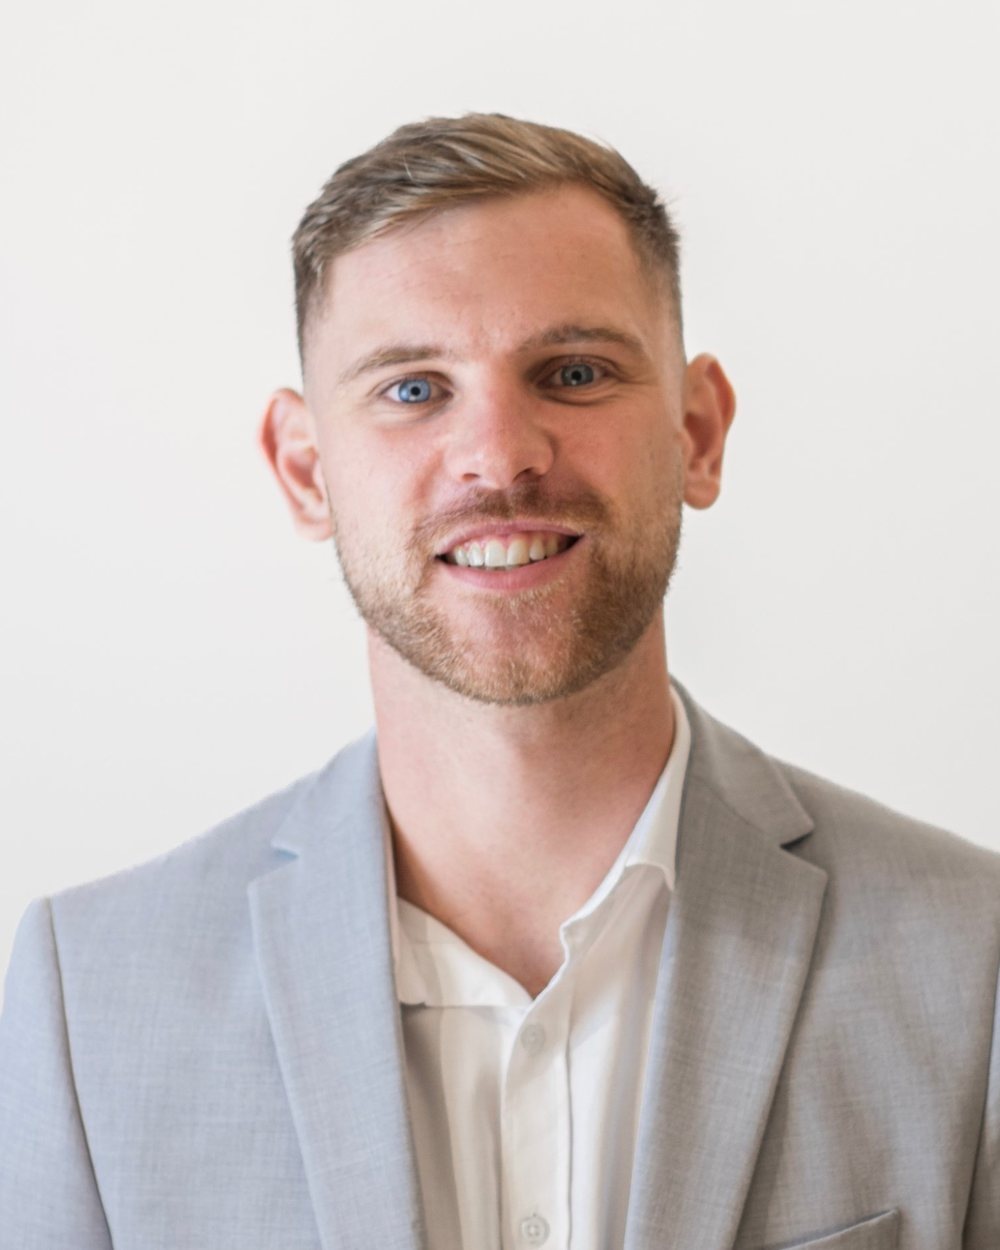
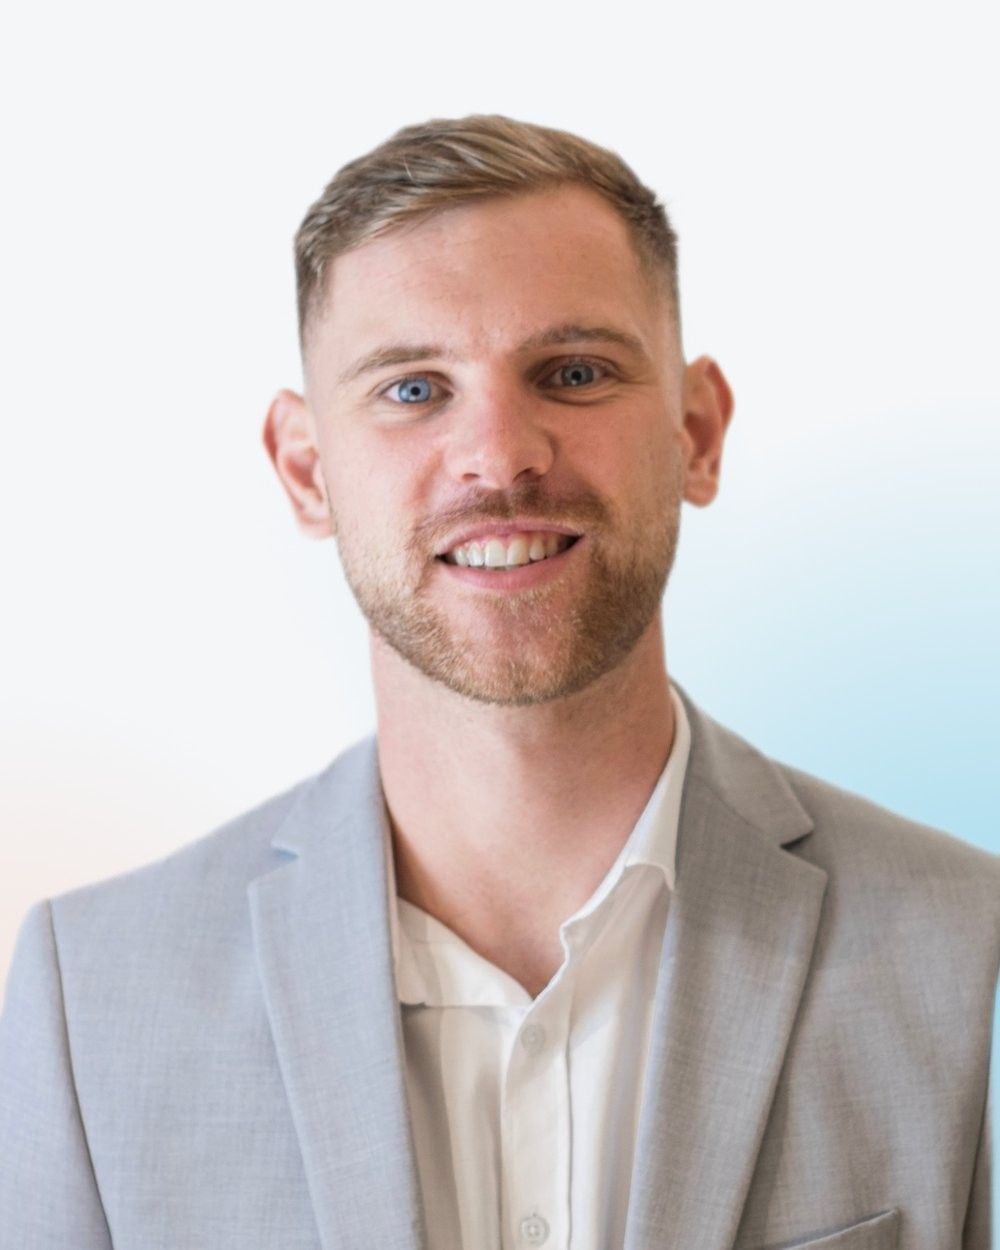
Grandes icônes avec cadre et portrait sur fond voile givré

diff --git a/src/app/manifest.ts b/src/app/manifest.ts
@@ -14,7 +14,7 @@ export default function manifest(): MetadataRoute.Manifest {
     theme_color: "#F4F6F8",
     icons: [
       { src: "/icon-192.png", sizes: "192x192", type: "image/png" },
-      { src: "/icon.png", sizes: "512x512", type: "image/png" },
+      { src: "/icon-512.png", sizes: "512x512", type: "image/png" },
     ],
   };
 }

diff --git a/CLAUDE.md b/CLAUDE.md
@@ -51,6 +51,6 @@ Bilingual showcase site (FR at the root, EN under `/en`), reproduced from the de
 - `SITE_URL` is `https://www.corentinbardouil.com`: Vercel redirects the bare domain to www, so absolute URLs must use www.
 - `robots.ts`, `sitemap.ts` (built from `pages`, `lastmod` = `LAST_UPDATE`, update it when copy changes) and `manifest.ts`.
 - Home pages render Person + WebSite JSON-LD (`homeJsonLd`), limited to what the page shows.
-- Icons: `src/app/favicon.ico`, `icon.png`, `icon.svg`, `apple-icon.png`, plus `public/icon-192.png` for the manifest. Keep their URLs stable.
+- Icons: tab icons are the plain frost « c » (`src/app/favicon.ico`, `icon.png`, `icon.svg`), legible at 16px. Large icons use the framed version (`src/app/apple-icon.png`, `public/icon-192.png` and `icon-512.png` for the manifest). Keep their URLs stable.
 
 **Copy rules**: do not rewrite validated copy, no em dashes, no « · », say « entreprises » rather than « PME », never « agents IA », do not name clients, partners or the unannounced company anywhere.
